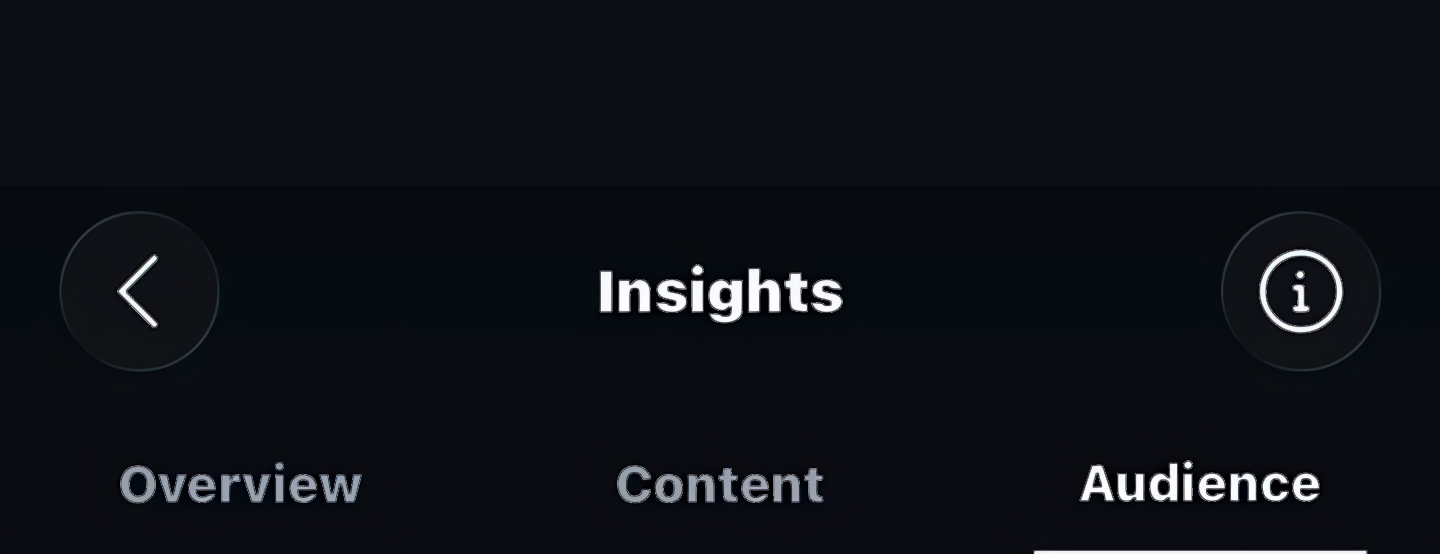
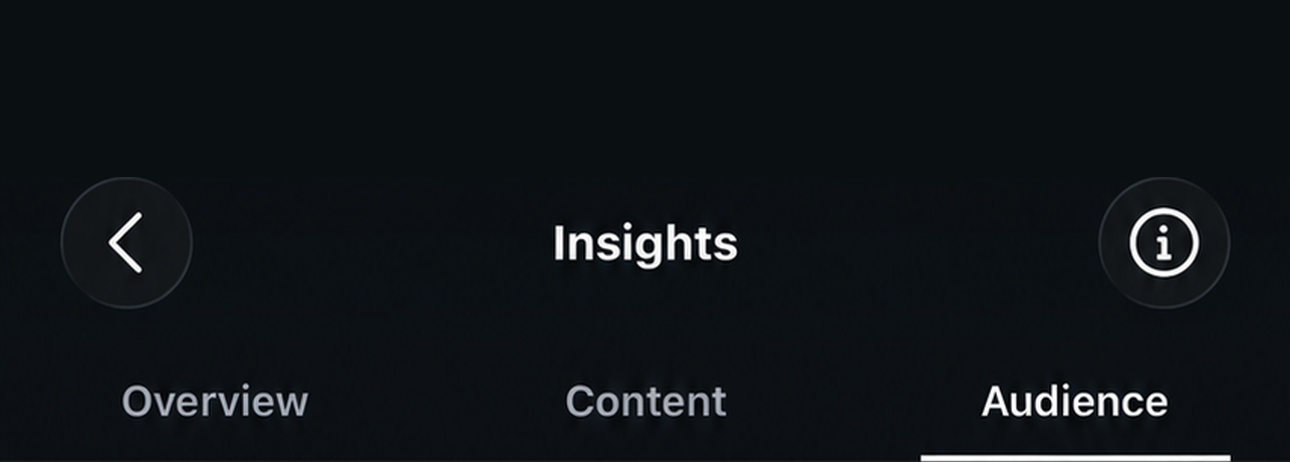
Replace Insights Overview and Audience with the new screenshot stitch.
Keep the live Overview chart overlay; Audience stays screenshot-only until the growth graph is edited.

diff --git a/new.html b/new.html
@@ -11,14 +11,14 @@
 <meta name="mobile-web-app-capable" content="yes">
 <meta name="apple-mobile-web-app-status-bar-style" content="black-translucent">
 <meta name="theme-color" content="#000000">
-<link rel="manifest" href="manifest_new.json?v=45">
-<link rel="apple-touch-icon" href="icon.png?v=45">
+<link rel="manifest" href="manifest_new.json?v=46">
+<link rel="apple-touch-icon" href="icon.png?v=46">
 <!-- native iOS launch images: iOS shows these INSTANTLY on tap (before our HTML
      loads), killing the system gray phase. Pixel-identical to the in-page splash. -->
-<link rel="apple-touch-startup-image" media="screen and (device-width: 430px) and (device-height: 932px) and (-webkit-device-pixel-ratio: 3) and (orientation: portrait)" href="launch_1290x2796.png?v=45">
-<link rel="apple-touch-startup-image" media="screen and (device-width: 393px) and (device-height: 852px) and (-webkit-device-pixel-ratio: 3) and (orientation: portrait)" href="launch_1179x2556.png?v=45">
+<link rel="apple-touch-startup-image" media="screen and (device-width: 430px) and (device-height: 932px) and (-webkit-device-pixel-ratio: 3) and (orientation: portrait)" href="launch_1290x2796.png?v=46">
+<link rel="apple-touch-startup-image" media="screen and (device-width: 393px) and (device-height: 852px) and (-webkit-device-pixel-ratio: 3) and (orientation: portrait)" href="launch_1179x2556.png?v=46">
 <title>Instagram</title>
-<script src="config.js?v=45"></script>
+<script src="config.js?v=46"></script>
 <script>
 if('serviceWorker' in navigator){
   navigator.serviceWorker.register('sw.js',{updateViaCache:'none'}).then(r=>r.update());
@@ -66,8 +66,8 @@ if('serviceWorker' in navigator){
   #insContent{position:relative;width:100%;background:#0d1115;}
   #insContent img{display:block;width:100%;}
   /* Overview line chart overlay — sits on the painted graph hole in the screenshot.
-     Percents are of insights_overview_full.png (1290×4627): y 790–1320. */
-  #viewsGraph{position:absolute;left:0;width:100%;top:17.0733%;height:11.4545%;
+     Percents are of insights_overview_full.png (1290×4583): y 766–1296. */
+  #viewsGraph{position:absolute;left:0;width:100%;top:16.7139%;height:11.5645%;
               z-index:4;pointer-events:none;}
   #viewsGraph svg{width:100%;height:100%;display:block;}
   #insLoading{position:fixed;inset:0;z-index:10;background:#0d1115;display:none;}
@@ -76,14 +76,14 @@ if('serviceWorker' in navigator){
   /* interactions: pinned header (safe-area padding, tiled real-bg strip - the /new1
      pattern) + stitched content + swipe-snap Audience carousel */
   #intHdr{position:sticky;top:0;z-index:10;padding-top:env(safe-area-inset-top,0px);
-          background:#0c1115 url(screens/n_int_hdr_bg.png?v=45) repeat-y;background-size:100% 3px;}
+          background:#0c1115 url(screens/n_int_hdr_bg.png?v=46) repeat-y;background-size:100% 3px;}
   #intHdr img{display:block;width:100%;}
   /* carousel: two snap stops (Top cities at 0, Top countries at D=1066/1290 of the
      viewport). Drag and release -> the card settles into place; ends clamp. */
   #audSnap{width:100%;overflow-x:auto;overflow-y:hidden;scroll-snap-type:x mandatory;
            -webkit-overflow-scrolling:touch;background:#0c1115;}
   #audTrack{width:182.6357%;display:flex;aspect-ratio:2356/685;
-            background:url(screens/n_aud_strip.png?v=45) no-repeat;background-size:100% 100%;}
+            background:url(screens/n_aud_strip.png?v=46) no-repeat;background-size:100% 100%;}
   #audTrack .sA{width:45.2462%;scroll-snap-align:start;}
   #audTrack .sB{width:54.7538%;scroll-snap-align:start;}
 </style>
@@ -95,7 +95,7 @@ if('serviceWorker' in navigator){
     <!-- HOME -->
     <div class="screen active" id="s-home">
       <div class="sheet">
-        <img src="screens/n_home.png?v=45">
+        <img src="screens/n_home.png?v=46">
         <div class="hot" style="left:80%;top:89%;width:20%;height:9%" onclick="goProfile()"></div>
       </div>
     </div>
@@ -103,7 +103,7 @@ if('serviceWorker' in navigator){
     <!-- PROFILE -->
     <div class="screen navpad" id="s-profile">
       <div class="sheet">
-        <img src="screens/n_profile.png?v=45">
+        <img src="screens/n_profile.png?v=46">
         <div class="hot" style="left:3%;top:36%;width:94%;height:7%" onclick="goDashboard()"></div>
       </div>
     </div>
@@ -111,7 +111,7 @@ if('serviceWorker' in navigator){
     <!-- DASHBOARD -->
     <div class="screen" id="s-dashboard">
       <div class="sheet">
-        <img id="dashImg" src="screens/n_dash.png?v=45">
+        <img id="dashImg" src="screens/n_dash.png?v=46">
         <!-- Views row -> insights. This capture has no Interactions row
              (Views / New followers / Content). Extra rows stay unwired. -->
         <div class="hot" style="left:0;top:17.8%;width:100%;height:4.8%" onclick="goInsights()"></div>
@@ -121,11 +121,11 @@ if('serviceWorker' in navigator){
     <!-- INTERACTIONS -->
     <div class="screen navpad" id="s-interactions">
       <div id="intHdr">
-        <img src="screens/n_int_header.png?v=45">
+        <img src="screens/n_int_header.png?v=46">
         <div class="hot" style="left:0;top:0;width:16%;height:58%" onclick="goBackDash()"></div>
       </div>
       <div class="sheet">
-        <img src="screens/n_int_top.png?v=45">
+        <img src="screens/n_int_top.png?v=46">
       </div>
       <div id="audSnap">
         <div id="audTrack"><div class="sA"></div><div class="sB"></div></div>
@@ -136,15 +136,15 @@ if('serviceWorker' in navigator){
     <!-- INSIGHTS -->
     <div class="screen" id="s-insights">
       <div id="insHeader">
-        <img id="himg" src="insights_overview_header2.png?v=45">
+        <img id="himg" src="insights_overview_header2.png?v=46">
         <div class="hot" style="left:0;top:65%;width:33.3%;height:35%" onclick="insTab('overview')"></div>
         <div class="hot" style="left:66.7%;top:65%;width:33.3%;height:35%" onclick="insTab('audience')"></div>
       </div>
       <div id="insContent">
-        <img id="cimg" src="insights_overview_full.png?v=45">
+        <img id="cimg" src="insights_overview_full.png?v=46">
         <div id="viewsGraph"></div>
       </div>
-      <div id="insLoading"><img id="loadImg" src="screens/ins_spinner_c.png?v=45"></div>
+      <div id="insLoading"><img id="loadImg" src="screens/ins_spinner_c.png?v=46"></div>
     </div>
 
   </div>
@@ -214,7 +214,7 @@ if('serviceWorker' in navigator){
     document.body.style.background = '#0d1115';
   });
 
-  const ASSET_V = '?v=45';   // bump when any screen image changes (cache-bust mobile)
+  const ASSET_V = '?v=46';   // bump when any screen image changes (cache-bust mobile)
   const el = id => document.getElementById(id);
   // Flow-model navigation: exactly one screen is .active (in normal flow, so it sets
   // the document height and iOS places the safe areas naturally). Transitions overlay

diff --git a/sw.js b/sw.js
@@ -4,7 +4,7 @@
 // background. If the background refresh finds a NEW app shell, clients are notified
 // so they can silently reload while the splash still covers the screen.
 // Bump CACHE on each deploy; activate purges older caches.
-const CACHE = 'ig-v45';
+const CACHE = 'ig-v46';
 
 self.addEventListener('install', () => self.skipWaiting());
 

diff --git a/screens/CROP.md b/screens/CROP.md
@@ -25,17 +25,28 @@ The live PWA uses `black-translucent` status bar, so iOS draws the real time/bat
 
 After swapping images, bump `?v=` in `new.html` and `CACHE` in `sw.js`.
 
-## Insights Overview (Views) stitch
+## Insights Overview + Audience stitch
 
-Dashboard **Views** already opens the existing Insights screen (`goInsights()`). Replace the two Overview PNGs; do not rebuild that page.
+Dashboard **Views** opens Insights (`goInsights()`). Tabs swap header+body PNGs. Keep the live Overview SVG (`#viewsGraph`); punch a hole in the Overview body so the baked-in line is gone. Do not edit the Audience growth graph.
 
-Source: numbered 1290 × 2796 shots from an iCloud folder (`1.PNG`, `2.PNG`, `3.PNG`). Content order is **3 → 2 → 1** (3 is the top of the page; 1 is the bottom). Do not stitch 1-2-3 by filename.
+Sources are scaled to width **1290** (folder shots are not always 1290×2796). Filename order is scroll order: `overview1` top → `overview3` bottom, `audience1` top → `audience4` bottom. Paint the top **177 px** of each shot before cropping.
 
-1. Paint the top **177 px** of shot 3 (status bar), same as home/profile/dash.
-2. Header is shot 3, `y = 0 … 462` (through the Overview tab underline) → `insights_overview_header2.png`.
-3. Body is overlap-matched on unique rows (not empty gray bars):
-   - shot 3 `y = 462 … 2480`
-   - shot 2 `y = 540 … 1890`
-   - shot 1 `y = 1350 … ~2609`
-   → `insights_overview_full.png`
-4. Audience tab still uses the existing `insights_audience_*` pair until new Audience shots arrive.
+### Overview
+
+1. Header is `overview1`, `y = 0 … 430` (through the Overview tab underline) → `insights_overview_header2.png`.
+2. Body, sticky chrome skipped on later shots:
+   - `overview1` `y = 430 … ~2466`
+   - `overview2` `y = 490 … 2260`
+   - `overview3` `y = 1820 … content end`
+   → `insights_overview_full.png` (1290×4583)
+3. Paint the line-chart hole at body `y = 766 … 1296` (matches SVG viewBox 1290×530). Overlay CSS: `top:16.7139%; height:11.5645%`.
+
+### Audience
+
+1. Header is `audience1`, `y = 0 … 462` (through the Audience tab underline) → `insights_audience_header2.png`.
+2. Body:
+   - `audience1` `y = 462 … 2320` (through top content by follows)
+   - `audience2` `y = 462 … 2210` (Gender + age, stop before Top locations)
+   - `audience3` `y = 500 … 1575` (Top locations / countries)
+   - `audience4` `y = 1020 … content end` (Follower active times)
+   → `insights_audience_full.png` (1290×6371)
